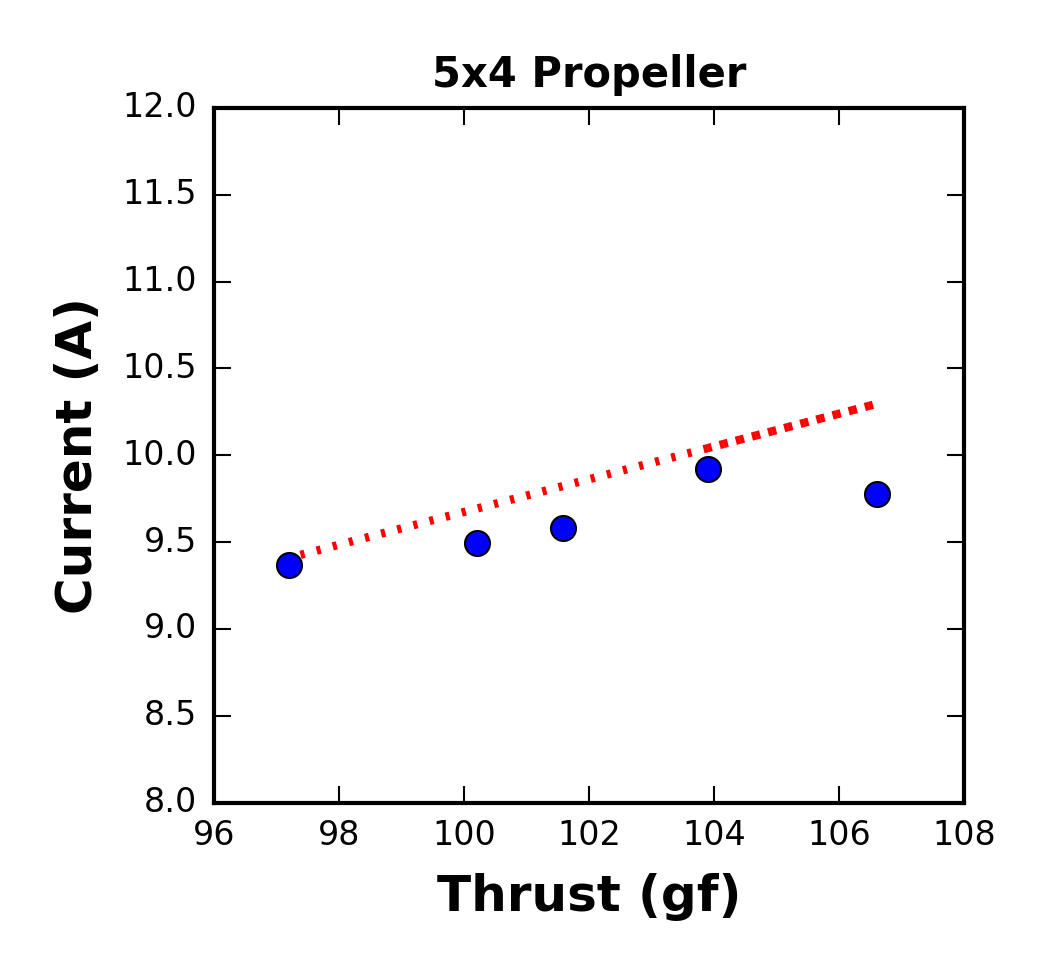
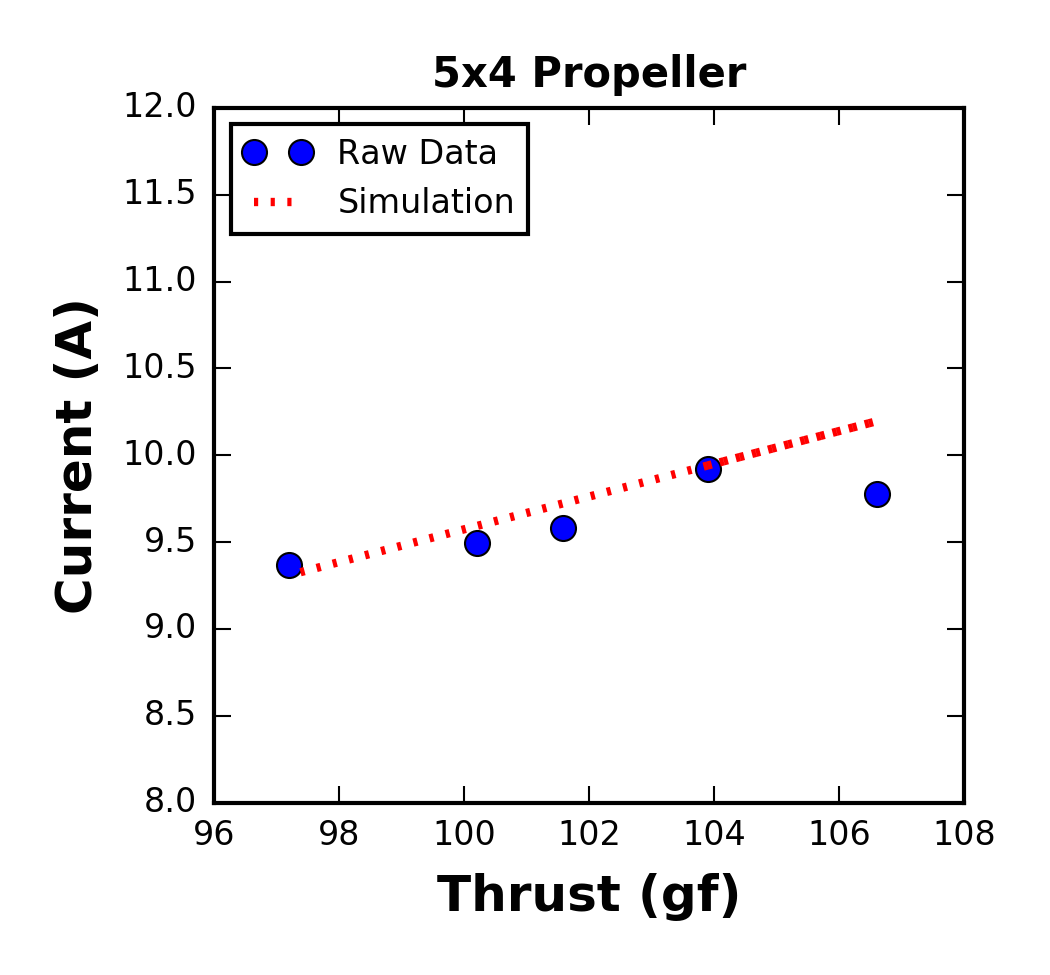
updated validation data

diff --git a/src/data_validation.py b/src/data_validation.py
@@ -71,12 +71,12 @@ def data_validation(file, motorObj, propObj, batteryObj, plot_results = False):
         plt.setp(ax.get_yticklabels(), fontsize=8)
         plt.hold(True)
         line1, = plt.plot(T_red, n_red, 'bo', label = 'Raw Data')
-        line2, = plt.plot(T_red, n_pred, 'r:', linewidth = 2.0, label = 'Regression')
+        line2, = plt.plot(T_red, n_pred, 'r:', linewidth = 2.0, label = 'Simulation')
         # line3, = plt.plot(delta_star, A_tube[2,:], 'g-', linewidth = 2.0, label = 'A_pod = 3.0 $m^2$')
         plt.xlabel('Thrust (gf)', fontsize = 12, fontweight = 'bold')
         plt.ylabel('RPM', fontsize = 12, fontweight = 'bold')
-       
         plt.title('5x4 Propeller', fontsize = 10, fontweight = 'bold')
+        plt.legend(handles = [line1, line2], loc = 2, fontsize = 8)
         # plt.xlim(10000, 30000)
         plt.ylim(20000,25000)
         plt.savefig('../Experimental_Data/validation_plots/5x4_prop_rpm.png', format = 'png', dpi = 300)
@@ -88,12 +88,12 @@ def data_validation(file, motorObj, propObj, batteryObj, plot_results = False):
         plt.setp(ax2.get_yticklabels(), fontsize=8)
         plt.hold(True)
         line1, = plt.plot(T_red, I_red, 'bo', label = 'Raw Data')
-        line2, = plt.plot(T_red, I_pred, 'r:', linewidth = 2.0, label = 'Regression')
+        line2, = plt.plot(T_red, I_pred, 'r:', linewidth = 2.0, label = 'Simulation')
         # line3, = plt.plot(delta_star, A_tube[2,:], 'g-', linewidth = 2.0, label = 'A_pod = 3.0 $m^2$')
         plt.xlabel('Thrust (gf)', fontsize = 12, fontweight = 'bold')
         plt.ylabel('Current (A)', fontsize = 12, fontweight = 'bold')
-       
         plt.title('5x4 Propeller', fontsize = 10, fontweight = 'bold')
+        plt.legend(handles = [line1, line2], loc = 2, fontsize = 8)
         # plt.xlim(10000, 30000)
         plt.ylim(8,12)
         plt.savefig('../Experimental_Data/validation_plots/5x4_prop_current.png', format = 'png', dpi = 300)
@@ -105,12 +105,12 @@ def data_validation(file, motorObj, propObj, batteryObj, plot_results = False):
         plt.setp(ax3.get_yticklabels(), fontsize=8)
         plt.hold(True)
         line1, = plt.plot(T_red, eta_red, 'bo', label = 'Raw Data')
-        line2, = plt.plot(T_red, eta_pred, 'r:', linewidth = 2.0, label = 'Regression')
+        line2, = plt.plot(T_red, eta_pred, 'r:', linewidth = 2.0, label = 'Simulation')
         # line3, = plt.plot(delta_star, A_tube[2,:], 'g-', linewidth = 2.0, label = 'A_pod = 3.0 $m^2$')
         plt.xlabel('Thrust (gf)', fontsize = 12, fontweight = 'bold')
-        plt.ylabel('$\eta$', fontsize = 12, fontweight = 'bold')
-       
+        plt.ylabel('$\eta$', fontsize = 12, fontweight = 'bold')       
         plt.title('5x4 Propeller', fontsize = 10, fontweight = 'bold')
+        plt.legend(handles = [line1, line2], loc = 2, fontsize = 8)
         # plt.xlim(10000, 30000)
         plt.ylim(.05,.1)
         plt.savefig('../Experimental_Data/validation_plots/5x4_prop_efficiency.png', format = 'png', dpi = 300)
